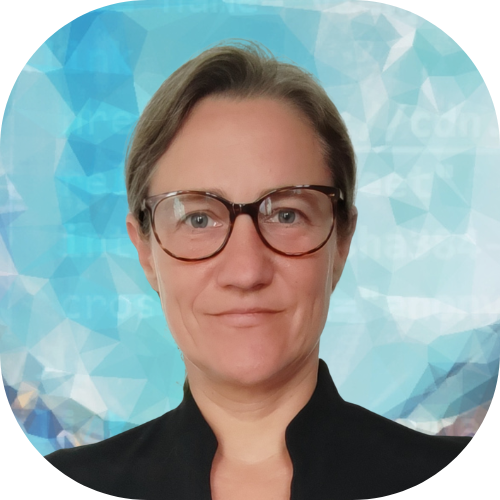
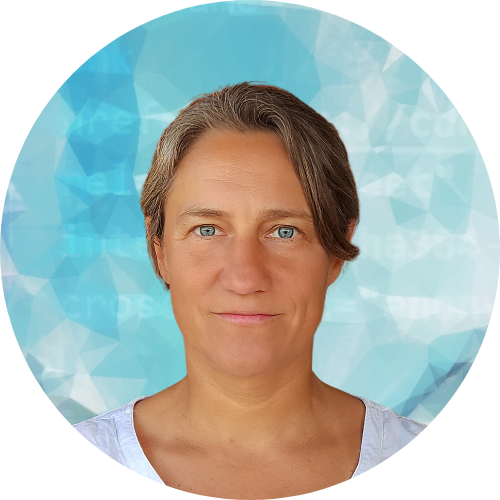
Updated about me picture & resume link

diff --git a/about.html b/about.html
@@ -101,7 +101,7 @@
       Check out my
       <a
         class="workpage-link bold-text"
-        href="https://drive.google.com/file/d/1xZaPp8D3QiEd7EkGwvYloh2tgegvOKWB/view?usp=drive_link"
+        href="https://drive.google.com/file/d/1cf12p1_R9LAKl2PPdqTJDa0dskoH33U2/view?usp=sharing"
         target="_blank"
         >resume</a
       >
